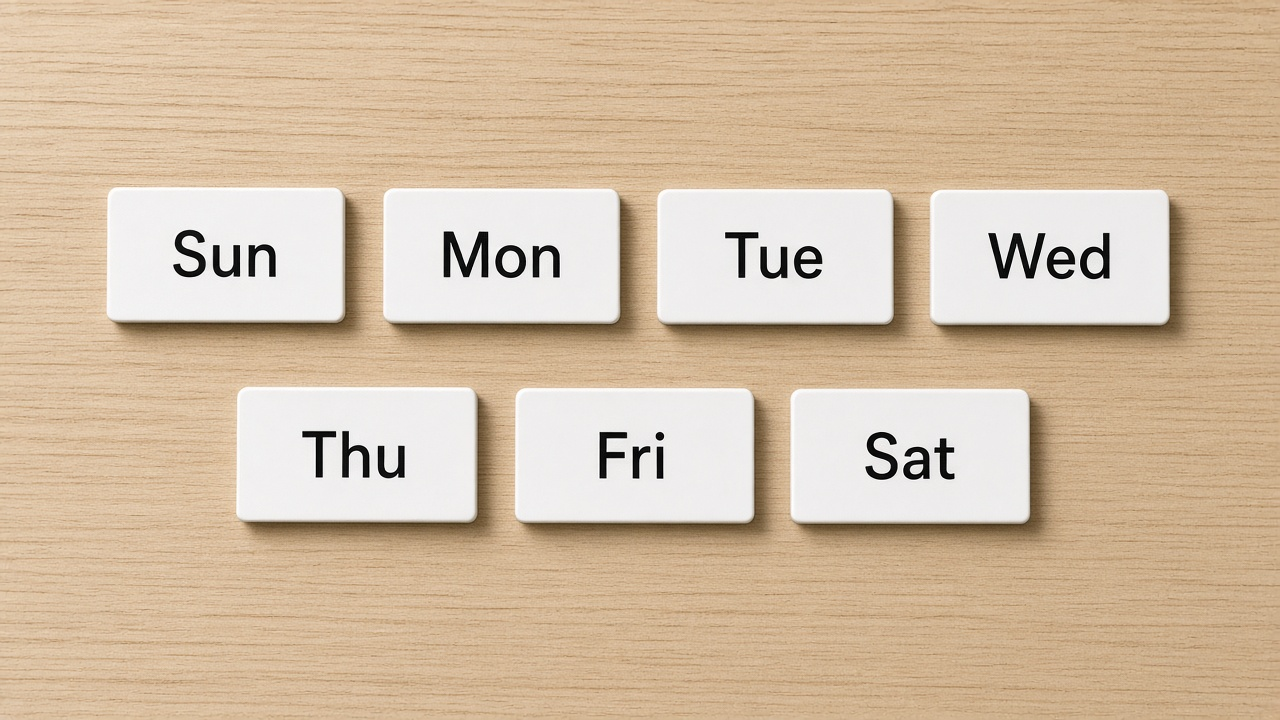
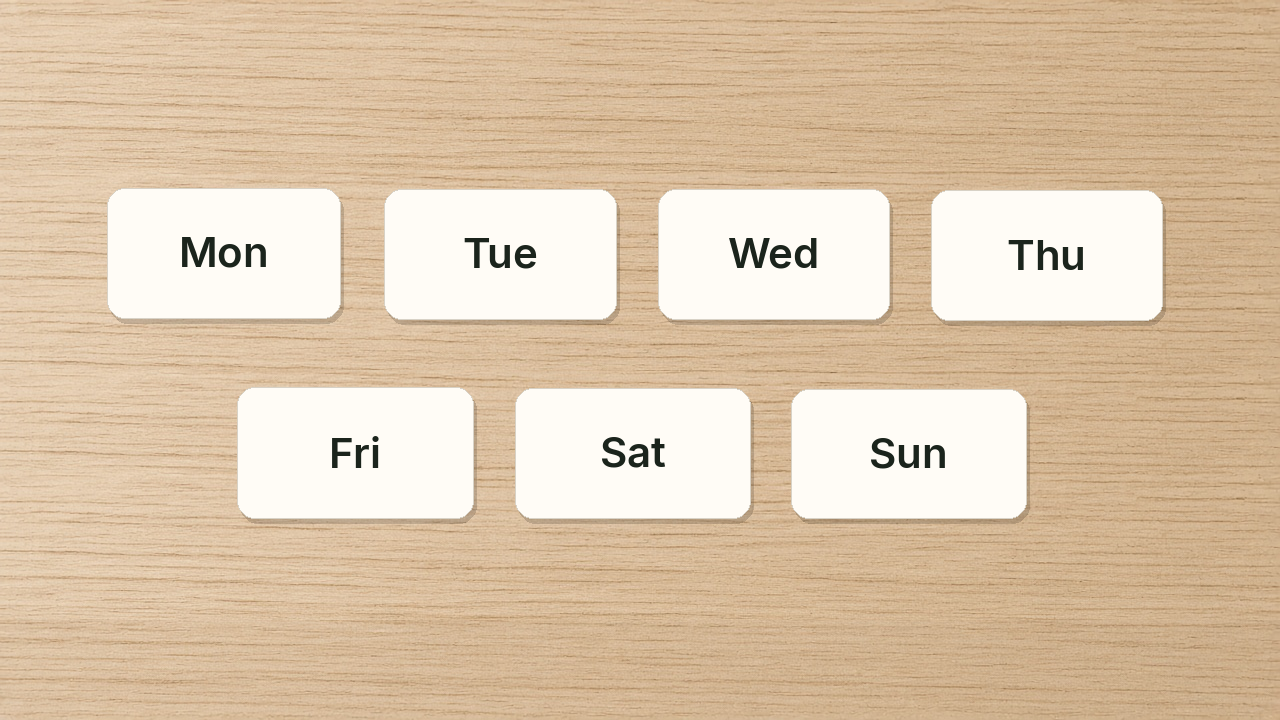
Start Chores and Day Word Pack on Monday and split Extras into three
Chores and the Day Word Pack run Mon through Sun. Pen & Pen Holder becomes Black Pen 5 Pack, Coloured Pen 5 Pack, and Fridge Holder at $12 each. Cache ?v=2.60.

diff --git a/index.html b/index.html
@@ -9,7 +9,7 @@
   <link rel="preconnect" href="https://fonts.googleapis.com">
   <link rel="preconnect" href="https://fonts.gstatic.com" crossorigin>
   <link href="https://fonts.googleapis.com/css2?family=DM+Sans:opsz,wght@9..40,600&family=Fraunces:opsz,wght@9..144,600&family=Nunito+Sans:wght@500;700;800&display=swap" rel="stylesheet">
-  <link rel="stylesheet" href="css/styles.css?v=2.59">
+  <link rel="stylesheet" href="css/styles.css?v=2.60">
 </head>
 <body>
   <div id="site-header"></div>
@@ -84,7 +84,7 @@
           <img src="images/day-tiles-pack-hero.png" width="1280" height="720" alt="">
         </div>
         <h3>Day Word Pack</h3>
-        <p class="muted">Sun–Sat magnetic day words.</p>
+        <p class="muted">Mon–Sun magnetic day words.</p>
         <p class="price">$8</p>
       </a>
       <a class="card" href="pack-custom.html">
@@ -117,12 +117,28 @@
     <section id="extras" class="catalogue-section">
     <h2 class="section-title">Extras</h2>
     <div class="grid">
-      <a class="card" href="pen-holder.html">
+      <a class="card" href="black-pen-pack.html">
         <div class="thumb thumb-board" aria-hidden="true">
-          <img src="images/pen-holder-hero.jpg" width="1280" height="720" alt="">
+          <img src="images/black-pen-pack-hero.jpg" width="1280" height="720" alt="">
         </div>
-        <h3>Pen & Pen Holder</h3>
-        <p class="muted">One holder and five pens.</p>
+        <h3>Black Pen 5 Pack</h3>
+        <p class="muted">Five mini dry-erase pens. White barrel, black cap.</p>
+        <p class="price">$12</p>
+      </a>
+      <a class="card" href="coloured-pen-pack.html">
+        <div class="thumb thumb-board" aria-hidden="true">
+          <img src="images/coloured-pen-pack-hero.jpg" width="1280" height="720" alt="">
+        </div>
+        <h3>Coloured Pen 5 Pack</h3>
+        <p class="muted">Five mini dry-erase pens. White barrel, coloured caps.</p>
+        <p class="price">$12</p>
+      </a>
+      <a class="card" href="fridge-holder.html">
+        <div class="thumb thumb-board" aria-hidden="true">
+          <img src="images/fridge-holder-hero.jpg" width="1280" height="720" alt="">
+        </div>
+        <h3>Fridge Holder</h3>
+        <p class="muted">The holder that sticks on the fridge. No pens.</p>
         <p class="price">$12</p>
       </a>
     </div>
@@ -130,6 +146,6 @@
   </main>
   <footer id="site-footer" class="wrap"></footer>
   <script src="js/store.js"></script>
-  <script src="js/site.js?v=2.59"></script>
+  <script src="js/site.js?v=2.60"></script>
 </body>
 </html>

diff --git a/coloured-pen-pack.html b/coloured-pen-pack.html
@@ -4,8 +4,8 @@
   <meta charset="utf-8">
   <meta name="viewport" content="width=device-width, initial-scale=1">
   <link rel="icon" href="favicon.svg" type="image/svg+xml">
-  <title>Day Word Pack — FamilyBoards</title>
-  <meta name="description" content="Magnetic Day Word Pack. Mon through Sun.">
+  <title>Coloured Pen 5 Pack — FamilyBoards</title>
+  <meta name="description" content="Five mini dry-erase pens. White barrel, coloured caps: red, orange, yellow, green, and blue. No holder.">
   <link rel="preconnect" href="https://fonts.googleapis.com">
   <link rel="preconnect" href="https://fonts.gstatic.com" crossorigin>
   <link href="https://fonts.googleapis.com/css2?family=DM+Sans:opsz,wght@9..40,600&family=Fraunces:opsz,wght@9..144,600&family=Nunito+Sans:wght@500;700;800&display=swap" rel="stylesheet">
@@ -15,21 +15,21 @@
   <div id="site-header"></div>
   <main class="wrap product product-photo">
     <div>
-      <div class="board-stage photo-stage" role="region" aria-label="Day Word Pack on light wood.">
+      <div class="board-stage photo-stage" role="region" aria-label="Coloured Pen 5 Pack.">
         <figure class="hero-photo-frame">
-          <img src="images/day-tiles-pack-hero.png" width="1280" height="720" alt="Seven white magnetic day words on light wood: Mon, Tue, Wed, Thu, Fri, Sat, Sun.">
+          <img src="images/coloured-pen-pack-hero.jpg" width="1280" height="720" alt="Five mini dry-erase pens on a fridge: white barrels with red, orange, yellow, green, and blue caps. No holder and no logo on the pens.">
         </figure>
       </div>
     </div>
     <aside class="buy-panel">
-      <p class="kicker">Word pack</p>
-      <h1>Day Word Pack</h1>
-      <p class="muted"><strong>Mon Tue Wed Thu Fri Sat Sun</strong>. Use with Weekly, Chores, or any grid that needs days as words rather than printed labels.</p>
+      <p class="kicker">Extra</p>
+      <h1>Coloured Pen 5 Pack</h1>
+      <p class="muted">Five mini dry-erase pens. White barrel, coloured caps: red, orange, yellow, green, and blue. No holder.</p>
       <div class="price-row">
-        <span class="muted">7 tiles · magnetic</span>
-        <strong>$8</strong>
+        <span class="muted">Five pens</span>
+        <strong>$12</strong>
       </div>
-      <button class="btn" id="add-pack" type="button" data-sku="pack-days">Add to cart</button>
+      <button class="btn" id="add-pack" type="button" data-sku="coloured-pen-pack">Add to cart</button>
     </aside>
   </main>
   <footer id="site-footer" class="wrap"></footer>

diff --git a/black-pen-pack.html b/black-pen-pack.html
@@ -4,8 +4,8 @@
   <meta charset="utf-8">
   <meta name="viewport" content="width=device-width, initial-scale=1">
   <link rel="icon" href="favicon.svg" type="image/svg+xml">
-  <title>Day Word Pack — FamilyBoards</title>
-  <meta name="description" content="Magnetic Day Word Pack. Mon through Sun.">
+  <title>Black Pen 5 Pack — FamilyBoards</title>
+  <meta name="description" content="Five mini dry-erase pens. White barrel, black cap, fine black tip. No holder.">
   <link rel="preconnect" href="https://fonts.googleapis.com">
   <link rel="preconnect" href="https://fonts.gstatic.com" crossorigin>
   <link href="https://fonts.googleapis.com/css2?family=DM+Sans:opsz,wght@9..40,600&family=Fraunces:opsz,wght@9..144,600&family=Nunito+Sans:wght@500;700;800&display=swap" rel="stylesheet">
@@ -15,21 +15,21 @@
   <div id="site-header"></div>
   <main class="wrap product product-photo">
     <div>
-      <div class="board-stage photo-stage" role="region" aria-label="Day Word Pack on light wood.">
+      <div class="board-stage photo-stage" role="region" aria-label="Black Pen 5 Pack.">
         <figure class="hero-photo-frame">
-          <img src="images/day-tiles-pack-hero.png" width="1280" height="720" alt="Seven white magnetic day words on light wood: Mon, Tue, Wed, Thu, Fri, Sat, Sun.">
+          <img src="images/black-pen-pack-hero.jpg" width="1280" height="720" alt="Five mini dry-erase pens on a fridge: white barrel, black cap, fine black tip. No holder and no logo on the pens.">
         </figure>
       </div>
     </div>
     <aside class="buy-panel">
-      <p class="kicker">Word pack</p>
-      <h1>Day Word Pack</h1>
-      <p class="muted"><strong>Mon Tue Wed Thu Fri Sat Sun</strong>. Use with Weekly, Chores, or any grid that needs days as words rather than printed labels.</p>
+      <p class="kicker">Extra</p>
+      <h1>Black Pen 5 Pack</h1>
+      <p class="muted">Five mini dry-erase pens. White barrel, black cap, fine black tip. No holder.</p>
       <div class="price-row">
-        <span class="muted">7 tiles · magnetic</span>
-        <strong>$8</strong>
+        <span class="muted">Five pens</span>
+        <strong>$12</strong>
       </div>
-      <button class="btn" id="add-pack" type="button" data-sku="pack-days">Add to cart</button>
+      <button class="btn" id="add-pack" type="button" data-sku="black-pen-pack">Add to cart</button>
     </aside>
   </main>
   <footer id="site-footer" class="wrap"></footer>

diff --git a/chores.html b/chores.html
@@ -9,7 +9,7 @@
   <link rel="preconnect" href="https://fonts.googleapis.com">
   <link rel="preconnect" href="https://fonts.gstatic.com" crossorigin>
   <link href="https://fonts.googleapis.com/css2?family=DM+Sans:ital,opsz,wght@0,9..40,500;0,9..40,600;0,9..40,700;1,9..40,500&family=Fraunces:opsz,wght@9..144,600&family=Nunito+Sans:wght@500;700;800&display=swap" rel="stylesheet">
-  <link rel="stylesheet" href="css/styles.css?v=2.59">
+  <link rel="stylesheet" href="css/styles.css?v=2.60">
 </head>
 <body>
   <div id="site-header"></div>
@@ -17,7 +17,7 @@
     <div>
       <div id="hero-stage" class="board-stage photo-stage mount-magnetic size-a4" role="region" aria-label="Chores.">
         <figure id="board-hero" class="hero-photo-frame board-a4 mount-magnetic" data-lines="3">
-          <img src="images/chores-hero-photo.png" width="1280" height="720" alt="White ferrous weekly chores board on light wood, same width as the Routines picture. Magnetic day words Sun through Sat; thin name tiles Georgia, Caleb, and Isaac on the left; thin title-case chore tiles from the 17-word pack sitting in the day cells.">
+          <img src="images/chores-hero-photo.png" width="1280" height="720" alt="White ferrous weekly chores board on light wood, same width as the Routines picture. Magnetic day words Mon through Sun; thin name tiles Georgia, Caleb, and Isaac on the left; thin title-case chore tiles from the 17-word pack sitting in the day cells.">
         </figure>
       </div>
       <p id="hero-caption">3 name rows · A4</p>
@@ -25,7 +25,7 @@
     <aside class="buy-panel">
       <p class="kicker">Board</p>
       <h1>Chores</h1>
-      <p class="muted">One row per person on a weekly grid. Day labels are magnetic tiles (Sun–Sat), not printed. Full first-name tiles sit on the left; chore tiles go in the cells. Empty cells are fine.</p>
+      <p class="muted">One row per person on a weekly grid. Day labels are magnetic tiles (Mon–Sun), not printed. Full first-name tiles sit on the left; chore tiles go in the cells. Empty cells are fine.</p>
 
       <fieldset>
         <legend>Line count</legend>
@@ -46,7 +46,7 @@
   </main>
   <footer id="site-footer" class="wrap"></footer>
   <script src="js/store.js"></script>
-  <script src="js/site.js?v=2.59"></script>
-  <script src="js/chores.js?v=2.59"></script>
+  <script src="js/site.js?v=2.60"></script>
+  <script src="js/chores.js?v=2.60"></script>
 </body>
 </html>

diff --git a/pen-holder.html b/pen-holder.html
@@ -2,39 +2,12 @@
 <html lang="en">
 <head>
   <meta charset="utf-8">
-  <meta name="viewport" content="width=device-width, initial-scale=1">
+  <meta http-equiv="refresh" content="0; url=index.html#extras">
   <link rel="icon" href="favicon.svg" type="image/svg+xml">
-  <title>Pen & Pen Holder — FamilyBoards</title>
-  <meta name="description" content="Pen & Pen Holder: one magnetic fridge holder and five mini dry-erase markers with a white barrel, black cap, and fine black tip.">
-  <link rel="preconnect" href="https://fonts.googleapis.com">
-  <link rel="preconnect" href="https://fonts.gstatic.com" crossorigin>
-  <link href="https://fonts.googleapis.com/css2?family=DM+Sans:opsz,wght@9..40,600&family=Fraunces:opsz,wght@9..144,600&family=Nunito+Sans:wght@500;700;800&display=swap" rel="stylesheet">
-  <link rel="stylesheet" href="css/styles.css?v=2.59">
+  <title>Extras — FamilyBoards</title>
+  <link rel="canonical" href="index.html#extras">
 </head>
 <body>
-  <div id="site-header"></div>
-  <main class="wrap product product-photo">
-    <div>
-      <div class="board-stage photo-stage" role="region" aria-label="Pen & Pen Holder stuck on a fridge.">
-        <figure class="hero-photo-frame">
-          <img src="images/pen-holder-hero.jpg" width="1280" height="720" alt="White magnetic fridge pen holder stuck on a fridge, with five mini dry-erase markers: white barrel, black cap, fine black tip. Two in the holder and three beside it. No FamilyBoard on the pens.">
-        </figure>
-      </div>
-    </div>
-    <aside class="buy-panel">
-      <p class="kicker">Extra</p>
-      <h1>Pen & Pen Holder</h1>
-      <p class="muted">One holder and five pens. Magnetic fridge holder that sticks on the fridge, plus five mini dry-erase markers with a white barrel, black cap, and fine black tip.</p>
-      <div class="price-row">
-        <span class="muted">One holder · five pens</span>
-        <strong>$12</strong>
-      </div>
-      <button class="btn" id="add-pack" type="button" data-sku="pen-holder">Add to cart</button>
-    </aside>
-  </main>
-  <footer id="site-footer" class="wrap"></footer>
-  <script src="js/store.js"></script>
-  <script src="js/site.js?v=2.59"></script>
-  <script src="js/photo-pack.js"></script>
+  <p><a href="index.html#extras">Black Pen 5 Pack, Coloured Pen 5 Pack, and Fridge Holder are in Extras.</a></p>
 </body>
 </html>

diff --git a/fridge-holder.html b/fridge-holder.html
@@ -4,8 +4,8 @@
   <meta charset="utf-8">
   <meta name="viewport" content="width=device-width, initial-scale=1">
   <link rel="icon" href="favicon.svg" type="image/svg+xml">
-  <title>Day Word Pack — FamilyBoards</title>
-  <meta name="description" content="Magnetic Day Word Pack. Mon through Sun.">
+  <title>Fridge Holder — FamilyBoards</title>
+  <meta name="description" content="Magnetic fridge holder that sticks on the fridge. Holder only, no pens.">
   <link rel="preconnect" href="https://fonts.googleapis.com">
   <link rel="preconnect" href="https://fonts.gstatic.com" crossorigin>
   <link href="https://fonts.googleapis.com/css2?family=DM+Sans:opsz,wght@9..40,600&family=Fraunces:opsz,wght@9..144,600&family=Nunito+Sans:wght@500;700;800&display=swap" rel="stylesheet">
@@ -15,21 +15,21 @@
   <div id="site-header"></div>
   <main class="wrap product product-photo">
     <div>
-      <div class="board-stage photo-stage" role="region" aria-label="Day Word Pack on light wood.">
+      <div class="board-stage photo-stage" role="region" aria-label="Fridge Holder.">
         <figure class="hero-photo-frame">
-          <img src="images/day-tiles-pack-hero.png" width="1280" height="720" alt="Seven white magnetic day words on light wood: Mon, Tue, Wed, Thu, Fri, Sat, Sun.">
+          <img src="images/fridge-holder-hero.jpg" width="1280" height="720" alt="White magnetic fridge holder stuck on a fridge. Empty. No pens.">
         </figure>
       </div>
     </div>
     <aside class="buy-panel">
-      <p class="kicker">Word pack</p>
-      <h1>Day Word Pack</h1>
-      <p class="muted"><strong>Mon Tue Wed Thu Fri Sat Sun</strong>. Use with Weekly, Chores, or any grid that needs days as words rather than printed labels.</p>
+      <p class="kicker">Extra</p>
+      <h1>Fridge Holder</h1>
+      <p class="muted">The holder that sticks on the fridge. Holder only, no pens.</p>
       <div class="price-row">
-        <span class="muted">7 tiles · magnetic</span>
-        <strong>$8</strong>
+        <span class="muted">One holder</span>
+        <strong>$12</strong>
       </div>
-      <button class="btn" id="add-pack" type="button" data-sku="pack-days">Add to cart</button>
+      <button class="btn" id="add-pack" type="button" data-sku="fridge-holder">Add to cart</button>
     </aside>
   </main>
   <footer id="site-footer" class="wrap"></footer>

diff --git a/house-rules.html b/house-rules.html
@@ -9,7 +9,7 @@
   <link rel="preconnect" href="https://fonts.googleapis.com">
   <link rel="preconnect" href="https://fonts.gstatic.com" crossorigin>
   <link href="https://fonts.googleapis.com/css2?family=DM+Sans:ital,opsz,wght@0,9..40,500;0,9..40,600;0,9..40,700;1,9..40,500&family=Fraunces:opsz,wght@9..144,600&family=Nunito+Sans:wght@500;700;800&display=swap" rel="stylesheet">
-  <link rel="stylesheet" href="css/styles.css?v=2.59">
+  <link rel="stylesheet" href="css/styles.css?v=2.60">
 </head>
 <body>
   <div id="site-header"></div>
@@ -38,7 +38,7 @@
   </main>
   <footer id="site-footer" class="wrap"></footer>
   <script src="js/store.js"></script>
-  <script src="js/site.js?v=2.59"></script>
+  <script src="js/site.js?v=2.60"></script>
   <script src="js/photo-board.js"></script>
 </body>
 </html>

diff --git a/meal-plan.html b/meal-plan.html
@@ -9,7 +9,7 @@
   <link rel="preconnect" href="https://fonts.googleapis.com">
   <link rel="preconnect" href="https://fonts.gstatic.com" crossorigin>
   <link href="https://fonts.googleapis.com/css2?family=DM+Sans:ital,opsz,wght@0,9..40,500;0,9..40,600;0,9..40,700;1,9..40,500&family=Fraunces:opsz,wght@9..144,600&family=Nunito+Sans:wght@500;700;800&display=swap" rel="stylesheet">
-  <link rel="stylesheet" href="css/styles.css?v=2.59">
+  <link rel="stylesheet" href="css/styles.css?v=2.60">
 </head>
 <body>
   <div id="site-header"></div>
@@ -38,7 +38,7 @@
   </main>
   <footer id="site-footer" class="wrap"></footer>
   <script src="js/store.js"></script>
-  <script src="js/site.js?v=2.59"></script>
+  <script src="js/site.js?v=2.60"></script>
   <script src="js/photo-board.js"></script>
 </body>
 </html>

diff --git a/routines.html b/routines.html
@@ -9,7 +9,7 @@
   <link rel="preconnect" href="https://fonts.googleapis.com">
   <link rel="preconnect" href="https://fonts.gstatic.com" crossorigin>
   <link href="https://fonts.googleapis.com/css2?family=DM+Sans:ital,opsz,wght@0,9..40,500;0,9..40,600;0,9..40,700;1,9..40,500&family=Fraunces:opsz,wght@9..144,600&family=Nunito+Sans:wght@500;700;800&display=swap" rel="stylesheet">
-  <link rel="stylesheet" href="css/styles.css?v=2.59">
+  <link rel="stylesheet" href="css/styles.css?v=2.60">
 </head>
 <body>
   <div id="site-header"></div>
@@ -49,7 +49,7 @@
   </main>
   <footer id="site-footer" class="wrap"></footer>
   <script src="js/store.js"></script>
-  <script src="js/site.js?v=2.59"></script>
+  <script src="js/site.js?v=2.60"></script>
   <script src="js/photo-board.js"></script>
 </body>
 </html>

diff --git a/shopping-list.html b/shopping-list.html
@@ -9,7 +9,7 @@
   <link rel="preconnect" href="https://fonts.googleapis.com">
   <link rel="preconnect" href="https://fonts.gstatic.com" crossorigin>
   <link href="https://fonts.googleapis.com/css2?family=DM+Sans:ital,opsz,wght@0,9..40,500;0,9..40,600;0,9..40,700;1,9..40,500&family=Fraunces:opsz,wght@9..144,600&family=Nunito+Sans:wght@500;700;800&display=swap" rel="stylesheet">
-  <link rel="stylesheet" href="css/styles.css?v=2.59">
+  <link rel="stylesheet" href="css/styles.css?v=2.60">
 </head>
 <body>
   <div id="site-header"></div>
@@ -38,7 +38,7 @@
   </main>
   <footer id="site-footer" class="wrap"></footer>
   <script src="js/store.js"></script>
-  <script src="js/site.js?v=2.59"></script>
+  <script src="js/site.js?v=2.60"></script>
   <script src="js/photo-board.js"></script>
 </body>
 </html>

diff --git a/weekly.html b/weekly.html
@@ -9,7 +9,7 @@
   <link rel="preconnect" href="https://fonts.googleapis.com">
   <link rel="preconnect" href="https://fonts.gstatic.com" crossorigin>
   <link href="https://fonts.googleapis.com/css2?family=DM+Sans:ital,opsz,wght@0,9..40,500;0,9..40,600;0,9..40,700;1,9..40,500&family=Fraunces:opsz,wght@9..144,600&family=Nunito+Sans:wght@500;700;800&display=swap" rel="stylesheet">
-  <link rel="stylesheet" href="css/styles.css?v=2.59">
+  <link rel="stylesheet" href="css/styles.css?v=2.60">
 </head>
 <body>
   <div id="site-header"></div>
@@ -46,7 +46,7 @@
   </main>
   <footer id="site-footer" class="wrap"></footer>
   <script src="js/store.js"></script>
-  <script src="js/site.js?v=2.59"></script>
+  <script src="js/site.js?v=2.60"></script>
   <script src="js/photo-board.js"></script>
 </body>
 </html>

diff --git a/pack-chores.html b/pack-chores.html
@@ -9,7 +9,7 @@
   <link rel="preconnect" href="https://fonts.googleapis.com">
   <link rel="preconnect" href="https://fonts.gstatic.com" crossorigin>
   <link href="https://fonts.googleapis.com/css2?family=DM+Sans:opsz,wght@9..40,600&family=Fraunces:opsz,wght@9..144,600&family=Nunito+Sans:wght@500;700;800&display=swap" rel="stylesheet">
-  <link rel="stylesheet" href="css/styles.css?v=2.59">
+  <link rel="stylesheet" href="css/styles.css?v=2.60">
 </head>
 <body>
   <div id="site-header"></div>
@@ -34,7 +34,7 @@
   </main>
   <footer id="site-footer" class="wrap"></footer>
   <script src="js/store.js"></script>
-  <script src="js/site.js?v=2.59"></script>
+  <script src="js/site.js?v=2.60"></script>
   <script src="js/photo-pack.js"></script>
 </body>
 </html>
